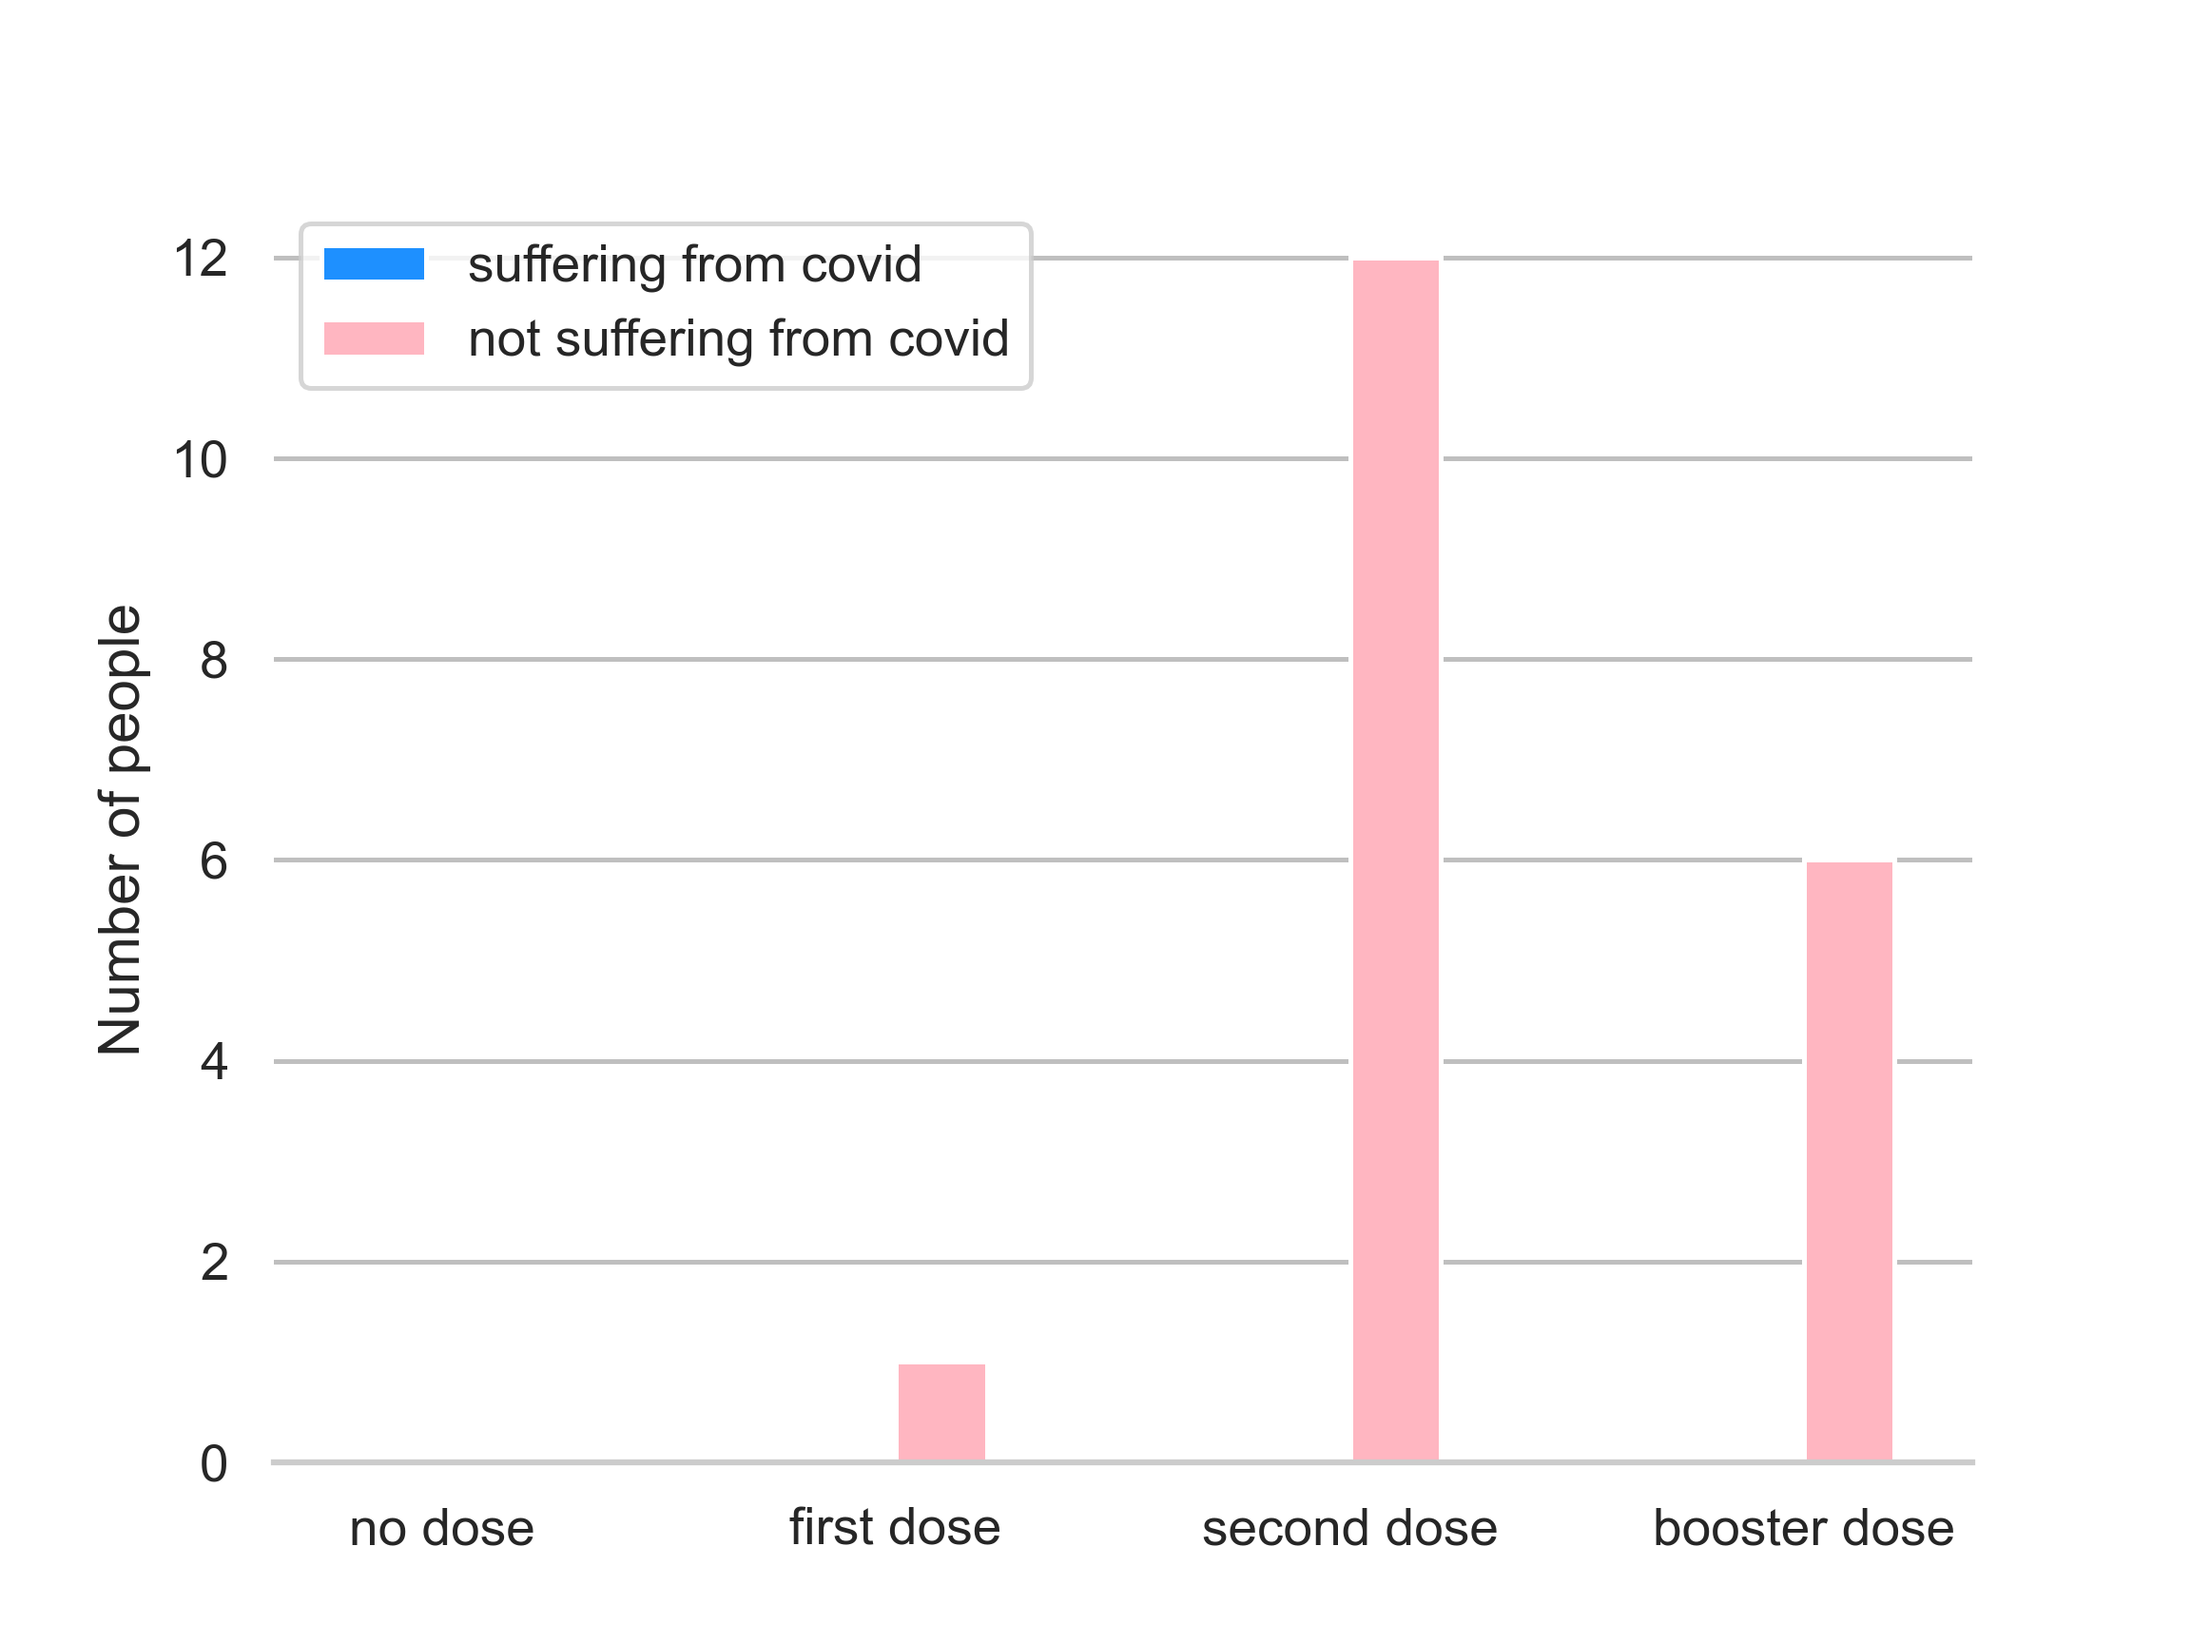
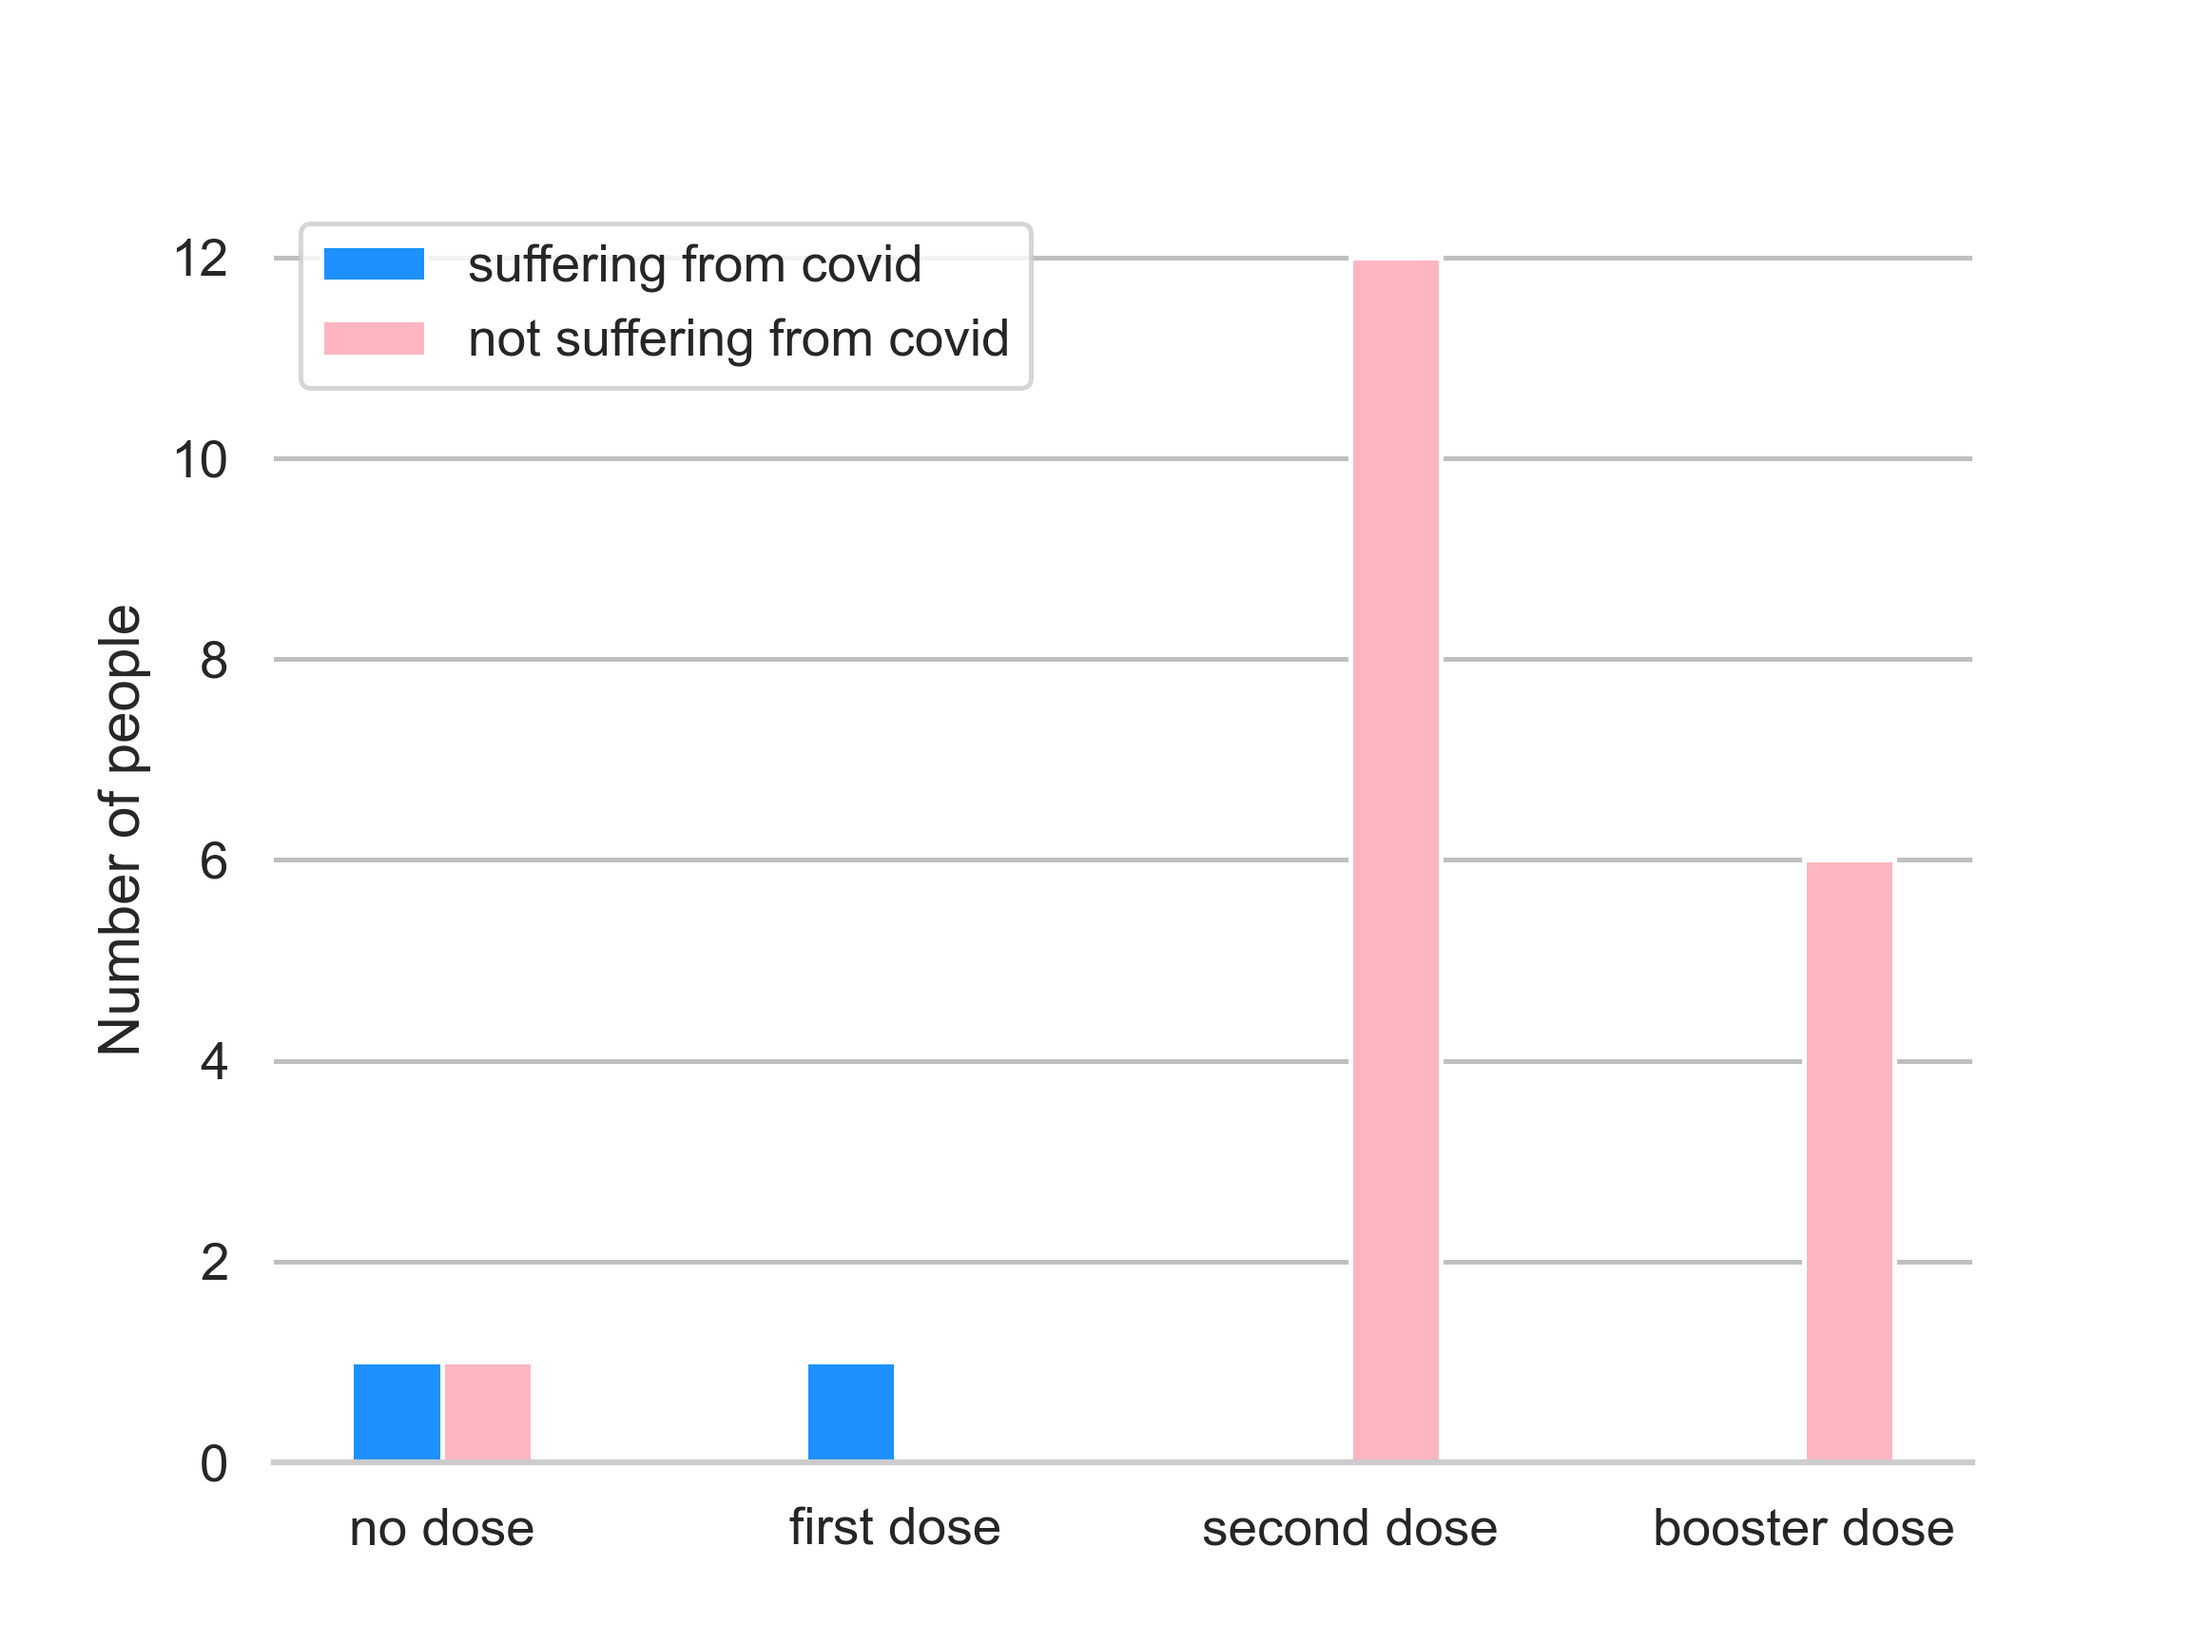
correction in data analysis

Changed region(s): [[0.3438, 0.8125, 0.4688, 0.9062], [0.1562, 0.8125, 0.25, 0.9062]]

diff --git a/index.html b/index.html
@@ -89,7 +89,7 @@
           <div class="modal-body center mb-4">  
             Welcome to <b>Healthcare Record</b>, a dedicated team
             of professionals committed to <b>revolutionizing</b>
-            the way patient data is <b>stored</b>, <b>managed</b>, and <b>accessed</b>.
+            the way data is <b>stored</b>, <b>managed</b>, and <b>accessed</b>.
             Our mission is to provide a <b>secure</b>, and
             <b>privacy-focused</b> platform for <b>hospitals</b> to securely store
             and <b>analyze</b> patient data while prioritizing patient <b>confidentiality</b>.

diff --git a/main.py b/main.py
@@ -70,7 +70,6 @@ chronicDis = []
 
 df = pd.read_csv("event.csv")
 for index, row in df.iterrows():
-    disease_count = 0
     if row[5].lower() == "male":
         bmi_male[row[7] / 100] = row[8]
     else:
@@ -94,12 +93,12 @@ for index, row in df.iterrows():
         else:
             tox[0] += 1
     if (
-        "covid" in str(row[13]).lower()
+        "covid" in str(row[12]).lower()
+        or "covid" in str(row[13]).lower()
         or "covid" in str(row[14]).lower()
         or "covid" in str(row[15]).lower()
         or "covid" in str(row[16]).lower()
         or "covid" in str(row[17]).lower()
-        or "covid" in str(row[13]).lower()
     ):
         if str(row[18]) == "No Dosage":
             covid[0] += 1
@@ -118,15 +117,13 @@ for index, row in df.iterrows():
             noCovid[2] += 1
         elif str(row[18]) == "Booster Dose":
             noCovid[3] += 1
+    disease_count = 0
     for i in range(6):
-        if str(row[13 + i]) != "-":
+        if str(row[12 + i]) != "-":
+            disease_count += 1
             if str(row[13 + i]).lower() in chronic:
                 chronicDis[-1] = chronicDis[-1] or 1
-            if (
-                str(row[13 + i]).lower() == "type 2 diabetes"
-                or str(row[13 + i]).lower() == "type 1 diabetes"
-                or str(row[13 + i]).lower() == "diabetes"
-            ):
+            if ( "diabetes" in str(row[13 + i]).lower()):
                 for i in range(5):
                     if (15 * (i + 1) - row[4] < 15) and (row[4] - (15 * i) < 15):
                         if i == 0:
@@ -139,10 +136,8 @@ for index, row in df.iterrows():
                             diabetes["46-60"] += 1
                         else:
                             diabetes["60+"] += 1
-            disease_count += 1
     disDat[disease_count] += 1
     dat[row[6]] += 1
-
 plt.rcParams["figure.dpi"] = 360
 ax = plt.subplot()
 plt.bar(diabetes.keys(), diabetes.values(), width=0.8)
